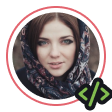
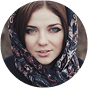
Criação do header.

diff --git a/styles/header.css b/styles/header.css
@@ -1,50 +1,89 @@
 main {
-  background-image: url("../assets/images/Background_Intro.png");
+  background-image: url(../assets/images/Background_Intro.png);
   background-repeat: no-repeat;
-  background-position: center center;
+  height: 750px;
   background-size: contain;
-  width: 100%;
-  min-height: 750px;
-  display: flex;
-  flex-direction: column;
-  align-items: center;
-  justify-content: center;
 }
-
 .intro {
-  max-width: 1040px;
   padding-top: 120px;
+  max-width: 1040px;
   margin: 0 auto;
 }
 
-.intro-inner {
+.inner-intro-container {
   max-width: 680px;
   margin: 0 auto;
 }
-
-.intro-inner img {
-  margin-bottom: 56px;
-  height: auto;
+.avatar {
+  display: flex;
+  margin: 8px;
+  padding-bottom: 56px;
+  justify-content: center;
+  align-items: center;
+  position: relative;
 }
 
-.intro-inner h2 {
-  font: var(--subtitle);
-  padding-bottom: 8px;
-  color: var(--brand-base-gray-200);
+#code-icon {
+  position: absolute;
+  top: 45%;
+  left: 52.5%;
+  max-width: 32px;
+}
+.circle {
+  display: flex;
+  justify-content: center;
+  align-items: center;
+  width: 96px;
+  height: 96px;
+  border-radius: 50%;
+  border: 2px solid var(--brand-primary-red);
+
+  img {
+    width: 87.27px;
+    border-radius: 50%;
+    object-fit: cover;
+    aspect-ratio: 1/1;
+  }
 }
 
-.intro-inner h1 {
-  font: var(--title-lg);
+h1 {
   margin-bottom: 20px;
-  color: var(--brand-base-gray-100);
 }
-
-.intro-inner p {
+p {
   font: var(--text-sm);
   color: var(--brand-base-gray-300);
   margin-bottom: 80px;
 }
-
-.intro-inner span {
+h2 > span {
   color: var(--brand-primary-red);
+}
+
+#tags {
+  display: flex;
+  flex-wrap: wrap;
+  align-content: center;
+  justify-content: center;
+  gap: 16px;
+
+  .tag {
+    padding: 8px 16px;
+    font: var(--text-md);
+    background-color: var(--brand-base-gray-400);
+    color: var(--brand-base-gray-200);
+    display: inline-block;
+    border-radius: 20px;
+    display: inline-flex;
+    align-items: center;
+    gap: 8px;
+    img {
+      height: 24px;
+    }
+  }
+}
+
+#caret-double-down {
+  margin-top: 94px;
+  img {
+    height: 32px;
+  }
 }

diff --git a/index.html b/index.html
@@ -16,10 +16,53 @@
       <div class="intro">
         <div class="inner-intro-container">
           <div class="avatar">
-            <img src="#" alt="" />
+            <img
+              id="code-icon"
+              src="./assets/icons/code.png"
+              alt="ícone do código"
+            />
+            <div class="circle">
+              <img src="./assets/images/Avatar.png" alt="" />
+            </div>
           </div>
+          <h2>
+            Hello World! Meu nome é
+            <span class="red-color">Martina Santos</span> e sou
+          </h2>
+          <h1>Desenvolvedor Fullstack</h1>
+          <p>
+            Transformo necessidades em aplicações reais, evolventes e
+            funcionais. Desenvolvo sistemas através da minha paixão pela
+            tecnologia, contribuindo com soluções inovadoras e eficazes para
+            desafios complexos.
+          </p>
+        </div>
+        <div id="tags">
+          <span class="tag">
+            <img src="./assets/icons/GitHub.svg" alt="" /> GitHub
+          </span>
+          <span class="tag">
+            <img src="./assets/icons/HTML.svg" alt="" /> HTML
+          </span>
+          <span class="tag">
+            <img src="./assets/icons/css.svg" alt="" /> CSS
+          </span>
+          <span class="tag">
+            <img src="./assets/icons/javascript.svg " alt="" /> JavaScript
+          </span>
+          <span class="tag">
+            <img src="./assets/icons/React.svg" alt="" /> React
+          </span>
+          <span class="tag">
+            <img src="./assets/icons/Node.js.svg" alt="" /> Node.js
+          </span>
         </div>
       </div>
+      <img
+        id="caret-double-down"
+        src="./assets/icons/CaretDoubleDown.png"
+        alt=""
+      />
     </main>
   </body>
 </html>

diff --git a/styles/global.css b/styles/global.css
@@ -46,13 +46,13 @@ body {
 }
 
 h1 {
-  font: var(--text-title-lg);
-  color: var(--color-gray-600);
+  font: var(--title-lg);
+  color: var(--brand-base-gray-100);
 }
 
 h2 {
-  font: var(--text-subtitle);
-  color: var(--color-gray-500);
+  font: var(--subtitle);
+  color: var(--brand-base-gray-200);
   padding-bottom: 8px;
 }
 

diff --git a/styles/style.css b/styles/style.css
@@ -1,2 +1,3 @@
 @import url(global.css);
 @import url(card.css);
+@import url(header.css);
